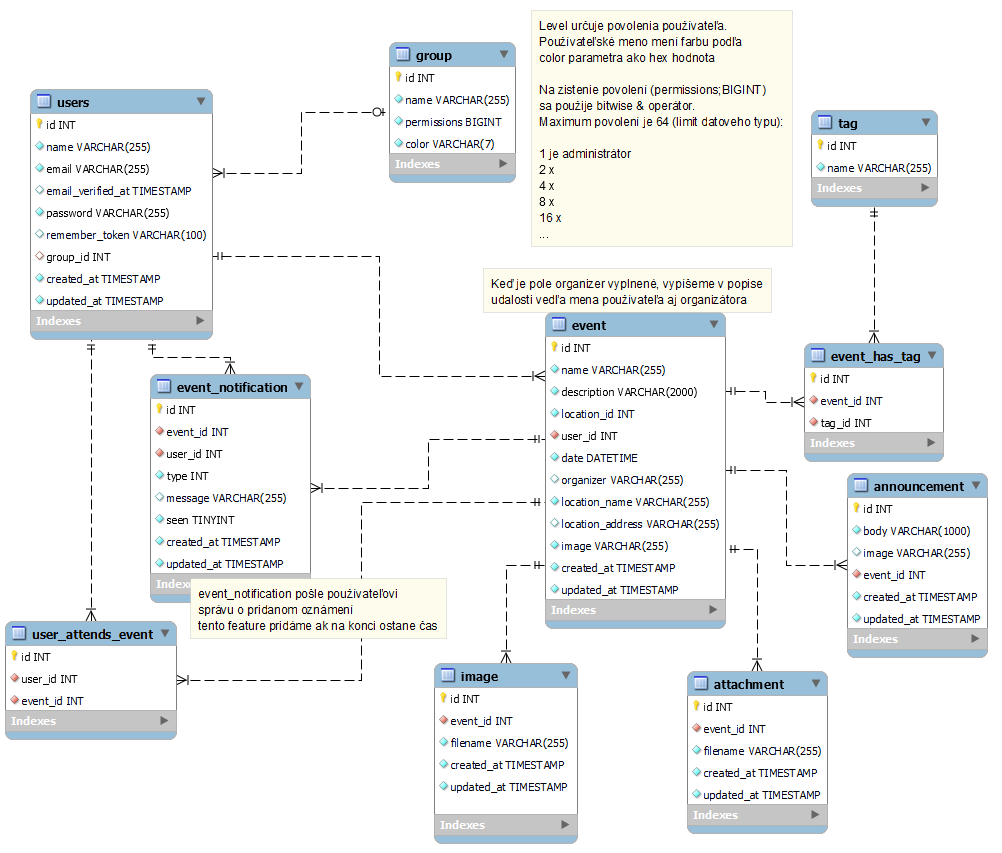
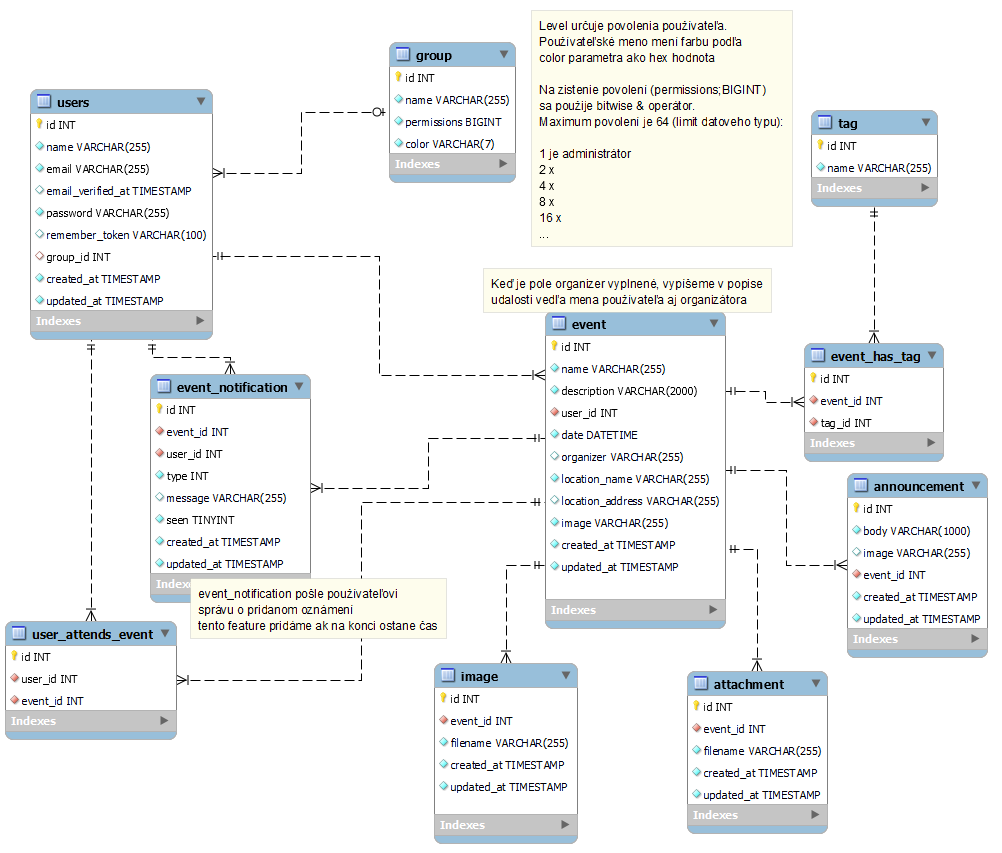
remove location_id from event table

Changed region(s): [[0.5259, 0.4267, 0.7116, 0.7011], [0.5569, 0.3658, 0.6188, 0.3962]]

diff --git a/src/database/migrations/2022_10_08_000100_create_event_table.php b/src/database/migrations/2022_10_08_000100_create_event_table.php
@@ -19,7 +19,6 @@ return new class extends Migration
             $table->id();
             $table->string('name');
             $table->string('description', 2000);
-            $table->integer('location_id');
             $table->unsignedBigInteger('user_id');
             $table->dateTime('date');
             $table->string('organizer')->nullable();

diff --git a/src/app/Models/Event.php b/src/app/Models/Event.php
@@ -15,7 +15,6 @@ class Event extends Model
     protected $fillable = [
         "name",
         "description",
-        "location_id",
         "user_id",
         "date",
         "organizer",
